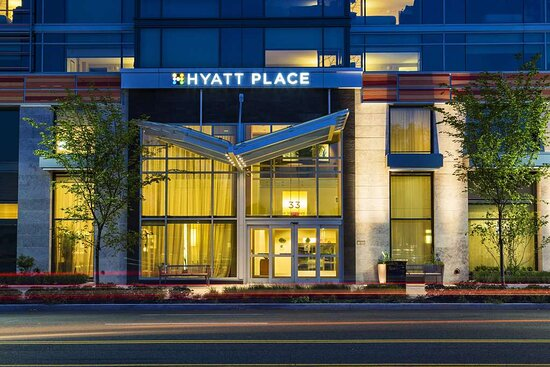
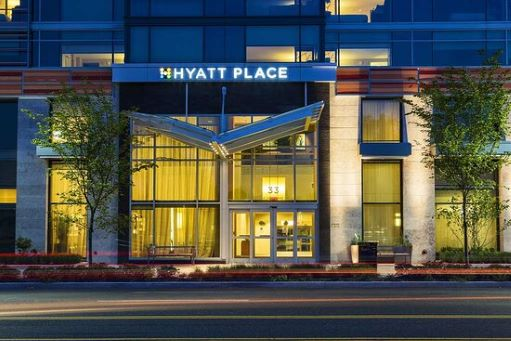
removed max-height from images

diff --git a/hotel/css/styles.css b/hotel/css/styles.css
@@ -442,8 +442,8 @@ footer {
   div#myCards {
     grid-template-columns: 1fr 1fr; }
     div#myCards .hotels {
-      max-height: 200px;
-      padding: 0 .75rem; }
+      padding: 0 .75rem;
+      height: 341px; }
     div#myCards .info {
       padding: 1rem; }
 

diff --git a/hotel/scss/_medium.scss b/hotel/scss/_medium.scss
@@ -37,8 +37,8 @@ main{
 div#myCards{
     grid-template-columns: 1fr 1fr;
     .hotels{
-        max-height: 200px;
         padding: 0 .75rem;
+        height: 341px;
     }
     .info{padding:1rem;}
 }
